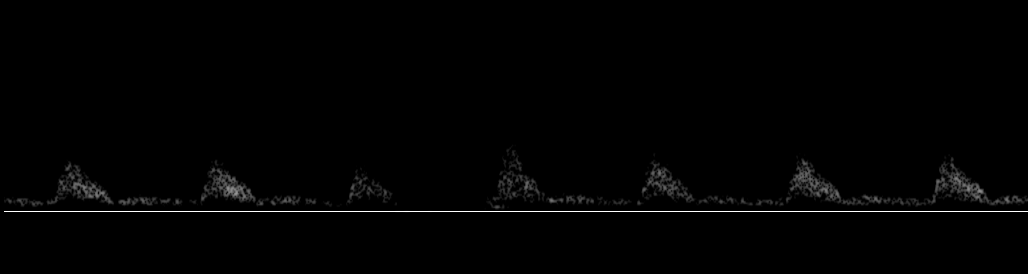
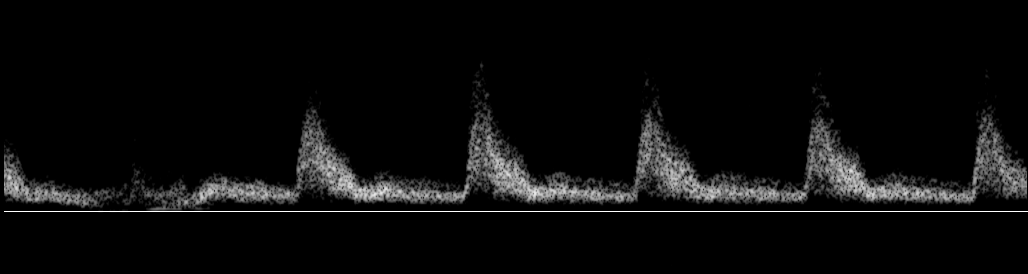
ditched tiff and now only dicom

Changed region(s): [[0.0, 0.3796, 1.0, 0.7883], [0.7782, 0.3504, 0.8093, 0.3796]]

diff --git a/pwv_multiframe.py b/pwv_multiframe.py
@@ -3,22 +3,12 @@ import argparse
 import cv2
 import numpy as np
 import pydicom
+import pandas as pd
 from PIL import Image
+from pydicom.dataset import Dataset, FileMetaDataset
+from tempfile import TemporaryDirectory
 
-# Detect and Load Image Stack (DICOM or TIFF)
-def load_image_stack(path):
-    # Attempt to accurately identify file type
-    # If DICOM header not found, try TIFF
-    try:
-        with Image.open(path) as img:
-            img.verify()  # Verify if it's a TIFF
-            print("Detected as TIFF based on PIL verification.")
-            return load_tiff_series(path)
-    except Exception:
-        return load_dicom_series(path)
-        pass
-    
-    raise ValueError("File could not be identified as DICOM or TIFF.")
+
 def load_dicom_series(path: str) -> np.ndarray:
     """
     Load a multi-frame DICOM file and return a 4D numpy array of shape
@@ -74,17 +64,6 @@ def load_dicom_series(path: str) -> np.ndarray:
         out.append(bgr)
     return np.stack(out, axis=0)
 
-# Function to load TIFF series
-def load_tiff_series(filepath):
-    try:
-        img = Image.open(filepath)
-        frames = []
-        for i in range(img.n_frames):
-            img.seek(i)
-            frames.append(np.array(img))
-        return np.array(frames)
-    except Exception as e:
-        raise ValueError(f"Error loading TIFF file: {str(e)}")
 
 def measure_pwv_frame(image: np.ndarray) -> float:
     """

diff --git a/pwv_app.py b/pwv_app.py
@@ -3,8 +3,6 @@ import numpy as np
 import pandas as pd
 import streamlit as st
 import matplotlib.pyplot as plt
-from pwv_multiframe import load_image_stack
-
 from pwv_multiframe import load_dicom_series
 import pwv_visual_analysis
 from pwv_visual_analysis import (
@@ -153,8 +151,8 @@ with tab_settings:
 with tab_analysis:
     st.title("Upload & Frame Selection")
 
-    prox_file = st.file_uploader("Proximal DICOM/.tiff", type=["dcm","tif","tiff"])
-    dist_file = st.file_uploader("Distal DICOM/.tiff",   type=["dcm","tif","tiff"])
+    prox_file = st.file_uploader("Proximal DICOM", type=["dcm"])
+    dist_file = st.file_uploader("Distal DICOM",   type=["dcm"])
 
     if prox_file and dist_file:
         tmpd = tempfile.mkdtemp()
@@ -163,8 +161,8 @@ with tab_analysis:
         open(ppath, 'wb').write(prox_file.read())
         open(dpath, 'wb').write(dist_file.read())
 
-        prox_stack = load_image_stack(ppath)
-        dist_stack = load_image_stack(dpath)
+        prox_stack = load_dicom_series(ppath)
+        dist_stack = load_dicom_series(dpath)
         max_frames = min(len(prox_stack), len(dist_stack))
         frames_to_process = st.number_input(
             "Frames to process",
